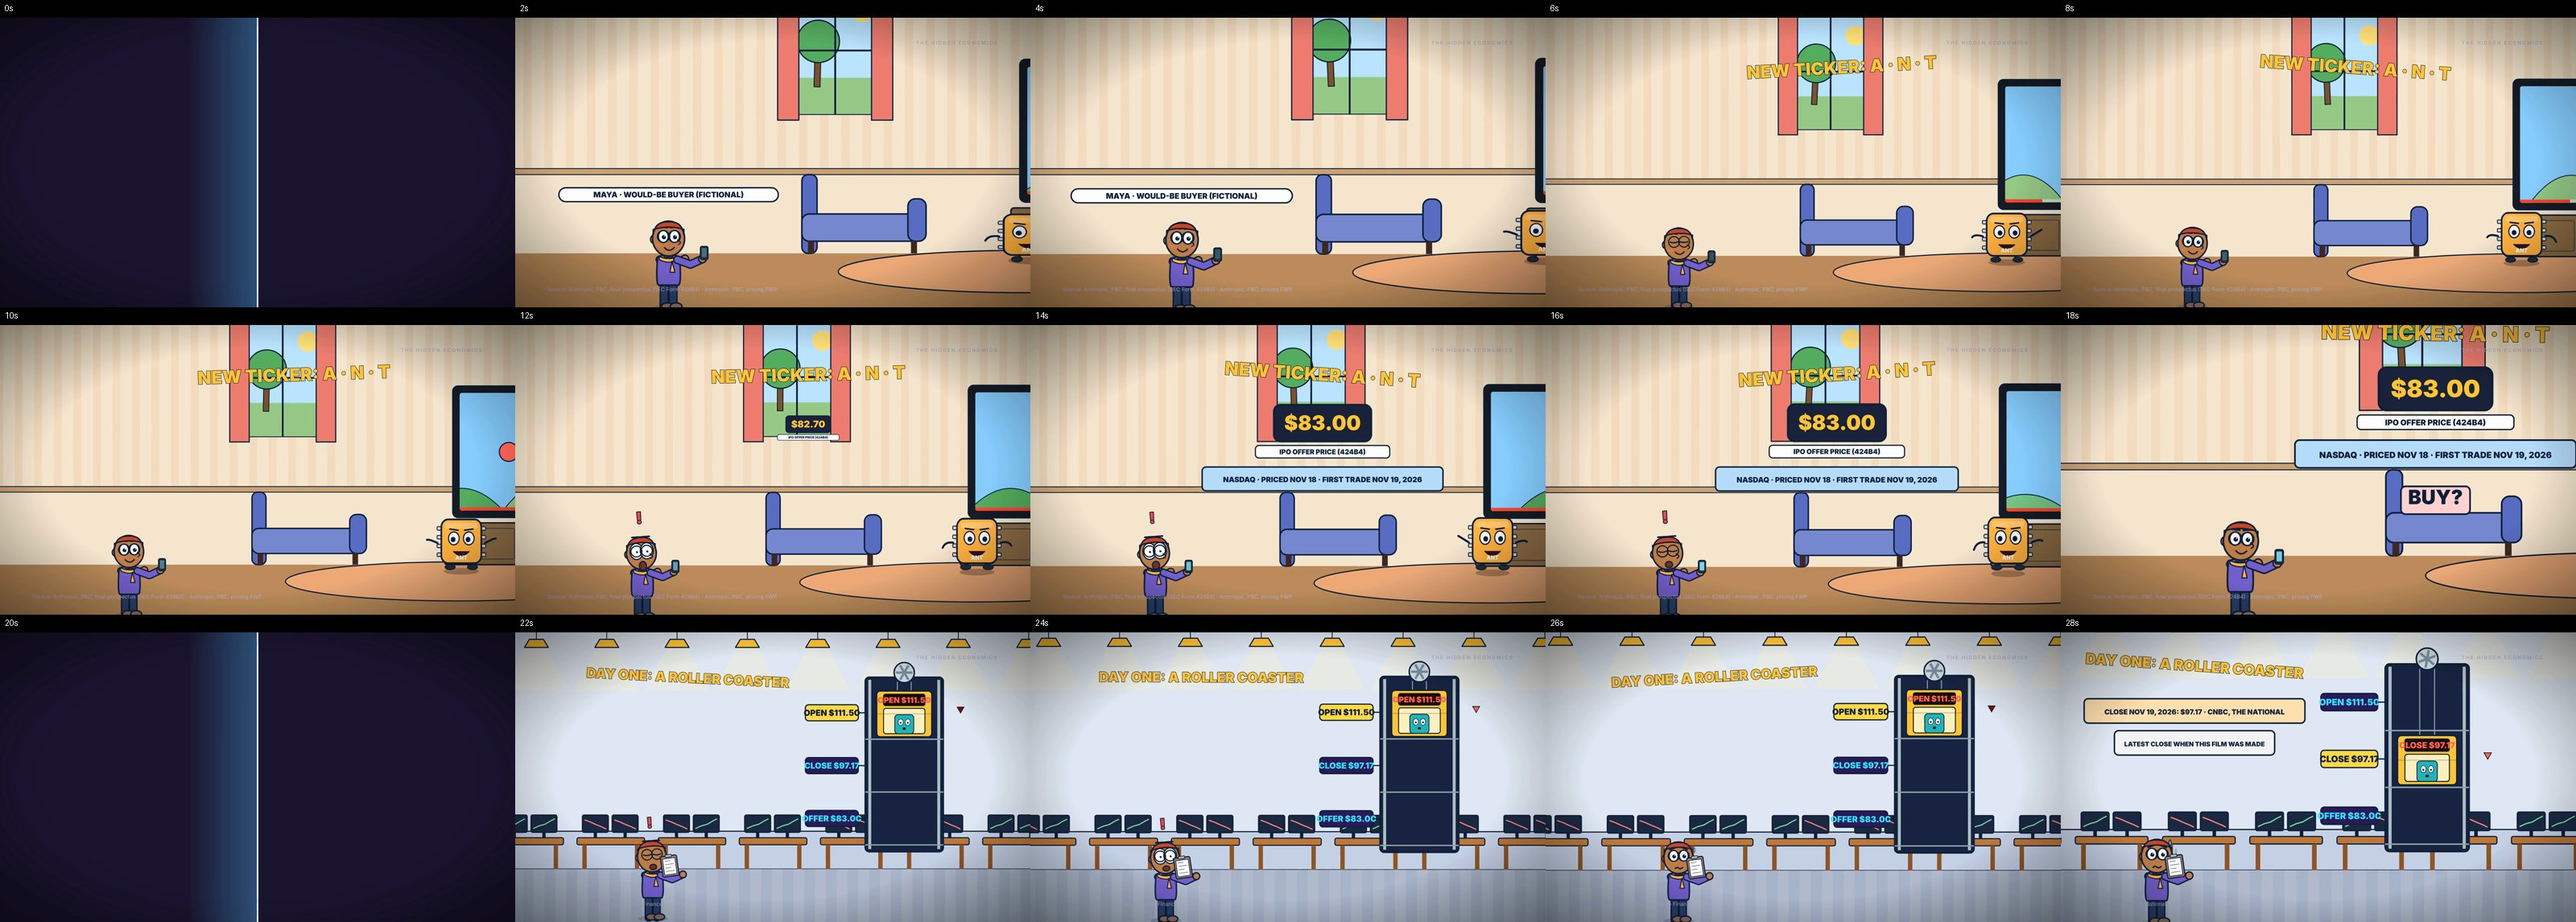
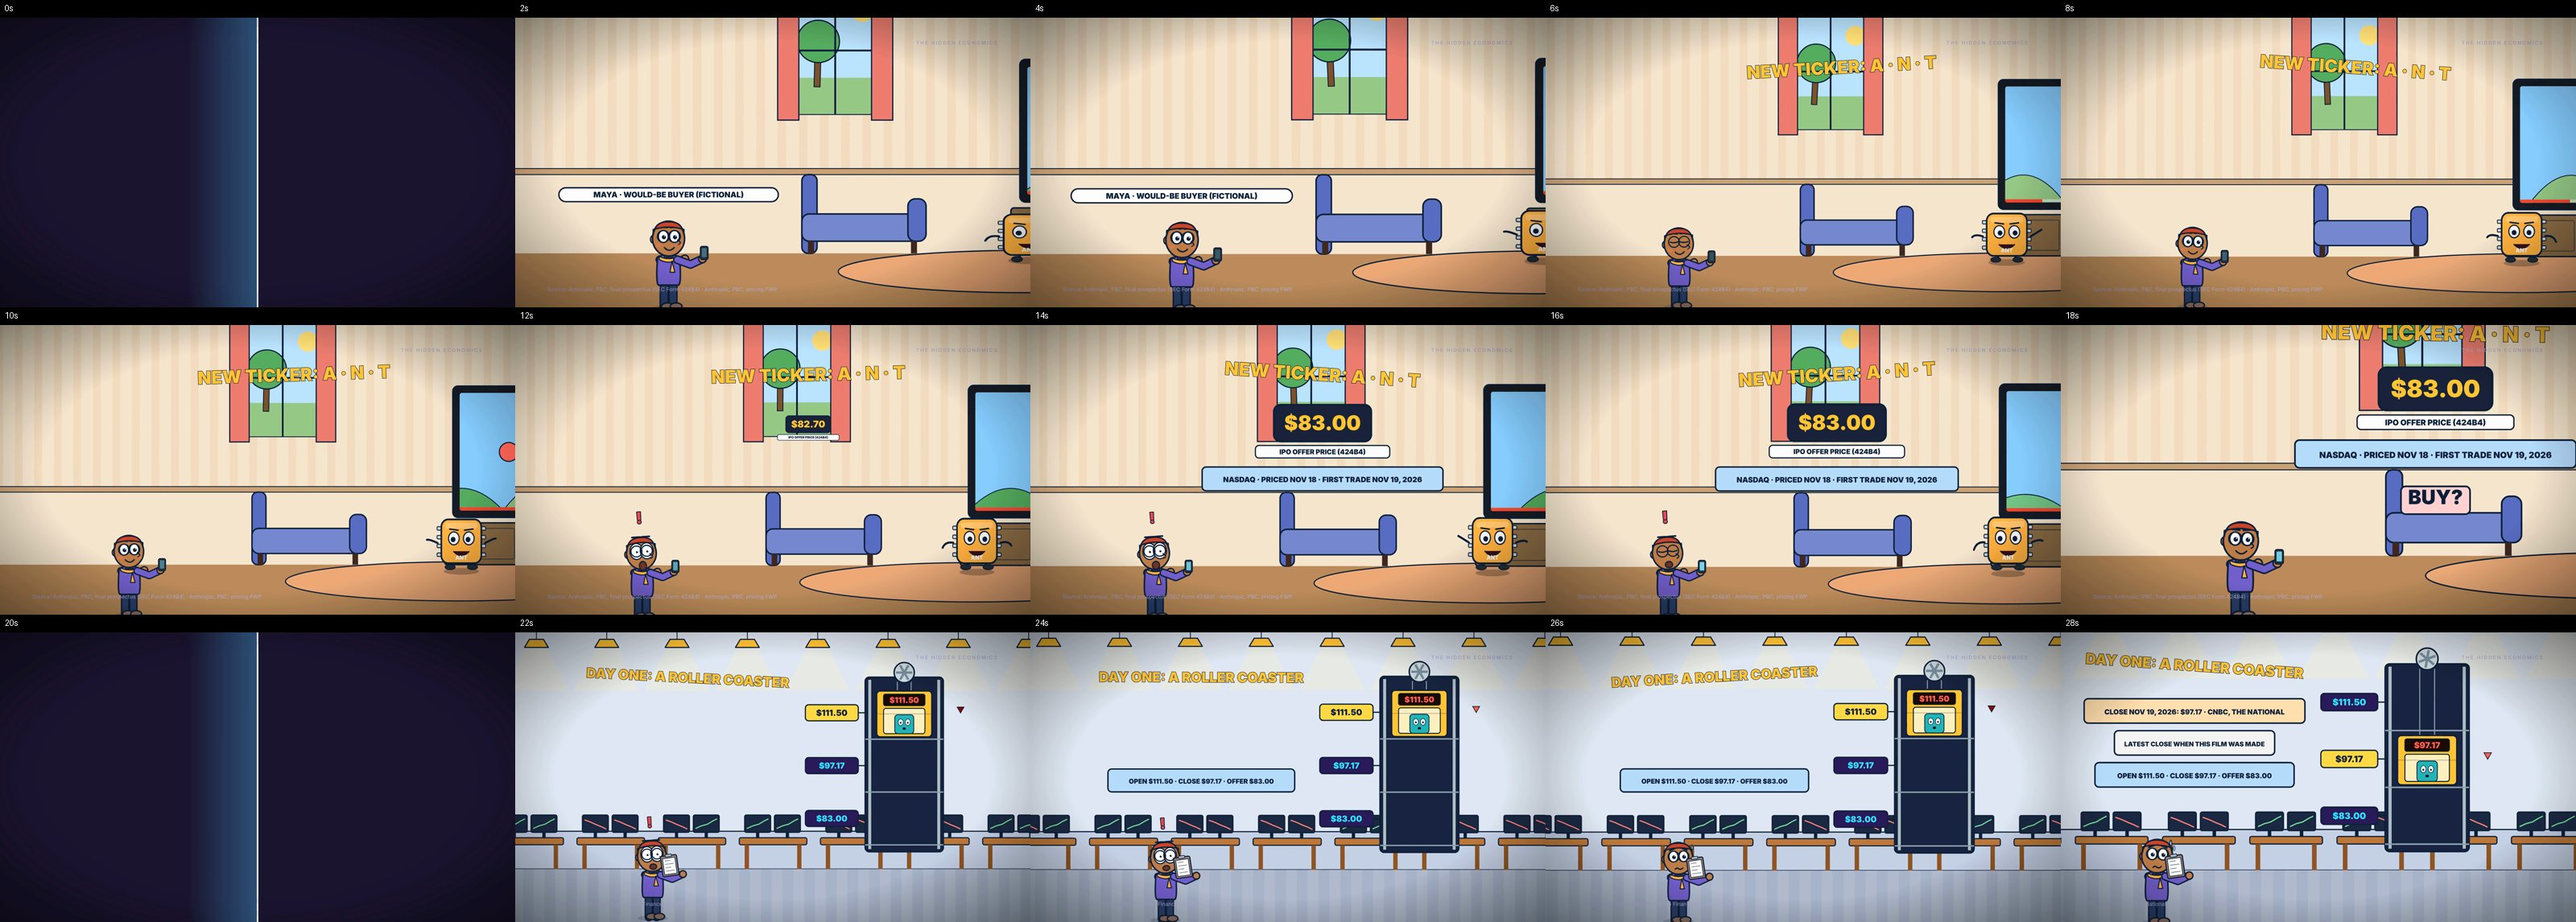
BYB Anthropic: visual QC sheets
Claude-Session: https://claude.ai/code/session_014jUfN7raNXxtX19HjW58d3

diff --git a/docs/episodes/byb-anthropic-2026-11/EDITORIAL_QC.md b/docs/episodes/byb-anthropic-2026-11/EDITORIAL_QC.md
@@ -1,0 +1,45 @@
+# Editorial QC: Anthropic Stock Before You Buy: 7 Things to Check (Nov 2026)
+
+Build: 746.1 s (12:26; series target 11-13 min, deliverable 660-800 s), 1920x1080, -16.1 LUFS, true peak -4.1 dBFS; pipeline QC **0 errors**,
+29 warnings (below); ffmpeg freezedetect (n=0.003, d=5 s): **no frozen stretch ≥ 5 s**; visual QC: no near-identical consecutive samples,
+no clipping, no silences > 2.5 s. Narration US$0.31 (gpt-4o-mini-tts, voice **alloy**, 10,229 characters; cap US$1); the fix re-render reused
+the cached narration (US$0.00).
+
+## Neutrality check (critical: Anthropic makes the AI model used to produce this film)
+| Check | Result |
+|---|---|
+| Sources limited to public filings (424B4, FWP, Amazon 10-Q, peer filings) and named press/data vendors; no insider, "the model knows" or first-person framing | PASS |
+| Never buy/sell/hold, no price target, no forecast; "Maya didn't decide today, and we're not deciding for her" | PASS |
+| "Not investment advice" on screen at the start (s04 headline + sign) and the end (s44 stamp, end card), spoken at both points, and in the description and Shorts package note | PASS |
+| Production disclosure spoken and on screen (s04) and in the description: AI tools including Claude are used; Anthropic did not sponsor or review | PASS (owner may remove; factual) |
+| Risks and positives with equal weight: c2_growth (bull and bear in one segment), c4_cost (falls / climbs back), c4_cash (promises vs cash cushion), c5_chips (no choke point / suppliers are shareholders), c5_customers (healthier spread / marketplaces), c6 (Facebook down, Arm up), c7_meaning (risk factor vs supporters), c8 (4 bullish + 4 bearish signals; c8_bull 14.9 s vs c8_bear 11.9 s, same balance shown level at the end) | PASS |
+| Superlatives only when sourced; no promotional words ("best", "winner"); governance described in the prospectus's own words, including its risk factor | PASS |
+| No accusation of wrongdoing; conflicts of interest quoted as the prospectus's own risk factor | PASS |
+| No real people drawn; Maya is fictional and labelled; no logos (ticker ANT) | PASS |
+| Ep 72 not repeated: no founding history, no money-loop chapter, no who-got-rich, no bull/base/bear roads; only reused verified facts (offer, close, compute cost, commitments) in a checklist frame | PASS |
+
+## Standard checks
+| Check | Result |
+|---|---|
+| Runtime within target | PASS (746.1 s) |
+| Hook first, then channel intro, then disclaimer | PASS (h_open-h_maya 0:00-0:57, intro 0:57-1:02, disclaimer 1:02) |
+| Presenter boards ≥ 4 (draw, chart, relationship) | PASS (p09 outstanding vs fully diluted, p14 price/sales bars, p25 report card, p30 partner triangle) |
+| Spoken numbers 10-15, ≤ 1 per segment | PASS (13; see FACT_CHECK.md) |
+| Story over statistics: one protagonist | PASS (Maya and her clipboard, hook to close) |
+| Market cap vs EV; outstanding vs fully diluted; unlocked vs sold; commitment vs debt; run rate vs revenue | PASS (each on screen) |
+| Every price dated; our calculations labelled | PASS ("DATA AS OF NOV 19, 2026 CLOSE" stamp at the hook/disclaimer, priced-in scene and end; "OUR CALC" on every multiple) |
+| Past IPOs sourced from AP, Reuters, Bloomberg and daily closes; "past patterns don't predict ANT" on screen | PASS |
+| Titles without "—"; first 30 characters make sense | PASS ("Anthropic Stock Before You Buy") |
+| USD only | PASS |
+
+## Visual review (first render → fixes → second render)
+First render reviewed on `visual_qc/sheet_sampled.jpg` and 15 extra frames. Fixed before the final render: elevator floor labels clipped by
+the shaft (now short prices + a sign); disclaimer stamp over the signs (moved); vote tower labels dark on dark and the ballot box over the
+auction podium (white plaques, studio set, layout inside the Short crop); share grid labels behind desks (office set, grid raised); the
+"no customer ≥ 10%" pie did not draw (full-circle arc; now two halves); Maya over the marketplace sign and the lock-up sign (moved); the
+"promises vs cash" headline over the bank columns (studio set). Signature sheets: `sheet_s03_list`, `sheet_s06_classes`, `sheet_s18_waves`,
+`sheet_s34_fb`, `sheet_s43_bear`.
+
+Warnings (accepted): 11 "number word 'one'/'twice'/'third'" notes (not statistics: "one vote", "matters twice", "Third," in a list); 4 pace
+notes (h_maya, c7_meaning, c8_bull, c8_bear at 188-204 wpm; alloy's natural pace); caption reading-speed and short-caption notes.
+Claims awaiting human verification: 7 (status source_located until a named reviewer signs off).

diff --git a/docs/episodes/byb-anthropic-2026-11/youtube-short/short_package.md b/docs/episodes/byb-anthropic-2026-11/youtube-short/short_package.md
@@ -1,0 +1,42 @@
+# YouTube Short: "Anthropic Stock: Big Unlock by May 17, 2027" (byb-anthropic-2026-11)
+
+Prepared for manual publishing. Nothing has been uploaded. File: `output/shorts/byb-anthropic-2026-11_short.mp4` (44 s, 1080x1920, captions burned in). Not committed (MP4).
+
+Built by `tools/make_shorts.py` from the episode's own opening (3 narrated segments, same audio and sources as the full episode; no new figures).
+
+## Title
+
+```
+Anthropic Stock: Big Unlock by May 17, 2027 #shorts
+```
+
+## Description
+
+```
+Next question. When can insiders sell?
+
+Watch the full story: "Anthropic Stock Before You Buy: 7 Things to Check (Nov 2026)" on The Hidden Economics. Every figure in it is sourced.
+
+#shorts #anthropic #stocks #ipo #economics
+```
+
+## Tags
+
+```
+anthropic stock, buy anthropic stock, should i buy anthropic ipo, anthropic stock analysis, anthropic stock symbol, ANT stock, anthropic ipo, anthropic lock up, anthropic share classes, long-term benefit trust, shorts, economics explained, The Hidden Economics
+```
+
+## On-screen hook
+
+```
+MAY 17, 2027:
+THE BIG UNLOCK
+```
+
+## Narration in the Short
+
+> Next question. When can insiders sell? Most new stocks come with a lock-up. Early holders promise not to sell for a while. Anthropic's isn't one cliff. It's a staircase. Some employee shares could trade from day one. More unlock in steps through December, January and February. And a bigger wave follows right after the first annual results. Then comes the big gate, the one most investors will circle. It opens right after the results for January to March, or at the very latest on May seventeenth next year. Behind that gate sit up to three billion shares, the biggest single step on the whole calendar.
+
+## Publishing note
+
+Link the Short to the full video with YouTube's "Related video" field after both are uploaded.
